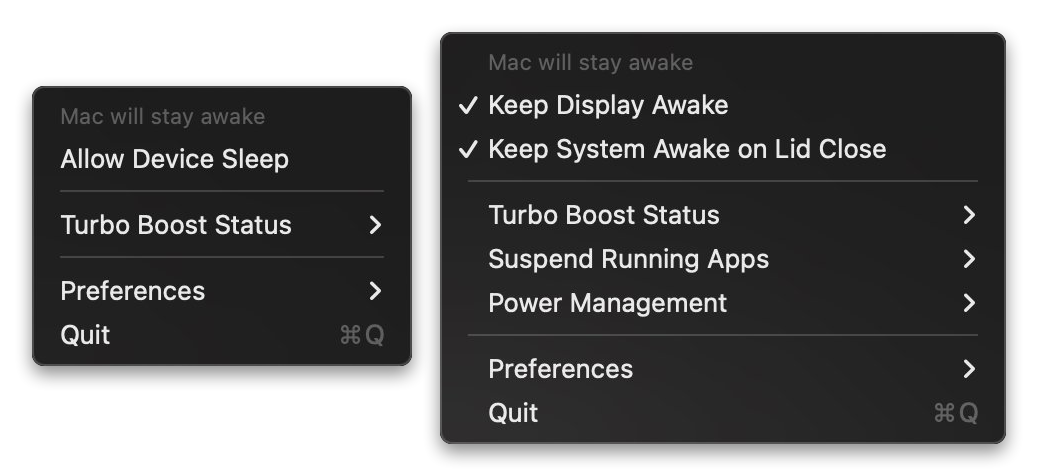
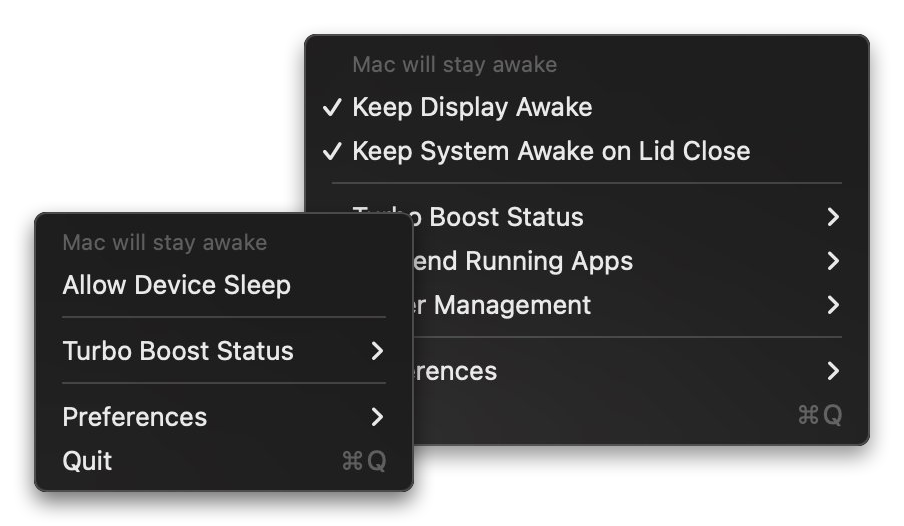
Update README dan Release Packgae

diff --git a/src/IzinDanLogin.swift b/src/IzinDanLogin.swift
@@ -10,6 +10,43 @@ extension AppDelegate {
         }
     }
 
+    func tanyaPasangIzinAwal() {
+        let pathSudoers = "/etc/sudoers.d/dontdoze"
+        guard !FileManager.default.fileExists(atPath: pathSudoers),
+              !UserDefaults.standard.bool(forKey: keyUdahTanyaSudoers) else {
+            return
+        }
+        UserDefaults.standard.set(true, forKey: keyUdahTanyaSudoers)
+        NSApp.activate(ignoringOtherApps: true)
+
+        let alert = NSAlert()
+        alert.alertStyle = .informational
+        alert.messageText = teks("Pasang Helper Sekali di Awal?", "Install Helper Once?")
+        alert.informativeText = teks(
+            """
+            Agar fitur cegah tidur saat layar ditutup (pmset) dan kontrol Turbo Boost (kextload/kextunload) bisa berjalan otomatis tanpa meminta password berulang kali—termasuk saat layar ditutup—DontDoze perlu membuat aturan terbatas di /etc/sudoers.d/dontdoze.
+
+            Kenapa aman?
+            • Hanya mengizinkan perintah spesifik: pmset (pengaturan daya), kextload, kextunload, dan chown kext.
+            • Bukan akses admin penuh dan tidak mengubah file sistem lain.
+            • Opsional: Anda bisa klik "Nanti Saja" jika hanya memakai mode jaga tetap menyala biasa, atau menghapus izin kapan saja lewat menu "Hapus Helper...".
+            """,
+            """
+            To let Lid-Close Sleep Prevention (pmset) and automatic Turbo Boost control (kextload/kextunload) run silently without repeated password prompts—including when the lid is closed—DontDoze needs to create a restricted rule at /etc/sudoers.d/dontdoze.
+
+            Why is this safe?
+            • It only allows specific commands: pmset (power settings), kextload, kextunload, and kext chown.
+            • It does not grant full admin access or modify other system files.
+            • Optional: click "Later" if you only need basic Keep Awake mode, and you can remove this anytime via "Remove Helper...".
+            """
+        )
+        alert.addButton(withTitle: teks("Pasang Helper", "Install Helper"))
+        alert.addButton(withTitle: teks("Nanti Saja", "Later"))
+        if alert.runModal() == .alertFirstButtonReturn {
+            _ = pasangFileSudoers()
+        }
+    }
+
     @objc func hapusIzin() {
         let konfirmasi = NSAlert()
         konfirmasi.messageText = teks("Hapus Izin & Bersihkan?", "Remove Permissions & Clean Up?")

diff --git a/src/ManajemenDaya.swift b/src/ManajemenDaya.swift
@@ -1,6 +1,28 @@
 import Cocoa
 
 extension AppDelegate {
+    @objc func toggleModeSemua() {
+        if lagiTerjaga || cacheSleepDimatiin {
+            matiinCaffeinate()
+            lagiTerjaga = false
+            if cacheSleepDimatiin && jalaninPmsetAdmin("disablesleep 0") {
+                cacheSleepDimatiin = false
+                lanjutinAplikasiKeSuspend()
+                aturPantauTutupLayar()
+            }
+        } else {
+            nyalainCaffeinate()
+            lagiTerjaga = true
+            if !cacheSleepDimatiin && FileManager.default.fileExists(atPath: "/etc/sudoers.d/dontdoze") {
+                if jalaninPmsetAdmin("disablesleep 1") {
+                    cacheSleepDimatiin = true
+                    aturPantauTutupLayar()
+                }
+            }
+        }
+        updateIkon()
+    }
+
     @objc func toggleLayarAja() {
         if lagiTerjaga {
             matiinCaffeinate()
@@ -70,6 +92,28 @@ extension AppDelegate {
             if alert.runModal() == .alertFirstButtonReturn, pasangFileSudoers(), jalaninPmsetAdmin(target) {
                 cacheNilaiDaya[opsi.key] = nilaiBaru
             }
+        }
+    }
+
+    @objc func resetOpsiDaya() {
+        let konfirmasi = NSAlert()
+        konfirmasi.alertStyle = .informational
+        konfirmasi.messageText = teks("Reset Manajemen Daya ke Default?", "Reset Power Management to Defaults?")
+        konfirmasi.informativeText = teks(
+            "Ini akan mengembalikan pengaturan standby, autopoweroff, hibernatemode, disksleep, powernap, womp, proximitywake, tcpkeepalive, dan ttyskeepawake ke bawaan macOS.",
+            "This will restore standby, autopoweroff, hibernatemode, disksleep, powernap, womp, proximitywake, tcpkeepalive, and ttyskeepawake to macOS defaults."
+        )
+        konfirmasi.addButton(withTitle: teks("Reset", "Reset"))
+        konfirmasi.addButton(withTitle: teks("Batal", "Cancel"))
+        guard konfirmasi.runModal() == .alertFirstButtonReturn else { return }
+
+        let defaultArgs = daftarOpsiDaya
+            .filter { cacheNilaiDaya[$0.key] != nil }
+            .map { "\($0.key) \($0.nilaiAktif)" }
+            .joined(separator: " ")
+        guard !defaultArgs.isEmpty else { return }
+        if jalaninPmsetAdmin(defaultArgs) {
+            cacheNilaiDaya = parseNilaiPmset(di: bacaOutputPmset())
         }
     }
 

diff --git a/src/AppDelegate.swift b/src/AppDelegate.swift
@@ -12,6 +12,7 @@ final class AppDelegate: NSObject, NSApplicationDelegate {
     let keyIkonMenuBar = "MenuBarIcon"
     let keySuspendTutupLayar = "FreezeAppsOnLidClose"
     let keyModeTurboBoost = "TurboBoostMode"
+    let keyUdahTanyaSudoers = "HasPromptedSudoersSetup"
     let keyModeLanjutan = "AdvancedMode"
     let keySisaPIDKeSuspend = "LeftoverFrozenPIDs"
 
@@ -114,6 +115,9 @@ final class AppDelegate: NSObject, NSApplicationDelegate {
             }
         }
         aturPantauTutupLayar()
+        DispatchQueue.main.async {
+            self.tanyaPasangIzinAwal()
+        }
     }
 
     func applicationWillTerminate(_ notification: Notification) {
@@ -130,7 +134,7 @@ final class AppDelegate: NSObject, NSApplicationDelegate {
         if event.type == .rightMouseUp || event.modifierFlags.contains(.option) {
             tampilinMenu()
         } else {
-            toggleLayarAja()
+            toggleModeSemua()
         }
     }
 
@@ -182,10 +186,10 @@ final class AppDelegate: NSObject, NSApplicationDelegate {
             menu.addItem(itemSistem)
             itemSleepLayar = itemSistem
         } else {
-            let judulToggle = lagiTerjaga
+            let judulToggle = (lagiTerjaga || cacheSleepDimatiin)
                 ? teks("Izinkan Perangkat Tidur", "Allow Device Sleep")
                 : teks("Jaga Tetap Menyala", "Keep Device Awake")
-            let itemToggle = NSMenuItem(title: judulToggle, action: #selector(toggleLayarAja), keyEquivalent: "")
+            let itemToggle = NSMenuItem(title: judulToggle, action: #selector(toggleModeSemua), keyEquivalent: "")
             itemToggle.target = self
             menu.addItem(itemToggle)
         }
@@ -254,6 +258,11 @@ final class AppDelegate: NSObject, NSApplicationDelegate {
                 menuDaya.addItem(item)
                 daftarItemDaya[opsi.key] = item
             }
+            menuDaya.addItem(NSMenuItem.separator())
+            let itemReset = NSMenuItem(title: teks("Reset ke Default...", "Reset to Defaults..."), action: #selector(resetOpsiDaya), keyEquivalent: "")
+            itemReset.target = self
+            menuDaya.addItem(itemReset)
+
             let parentDaya = NSMenuItem(title: teks("Manajemen Daya", "Power Management"), action: nil, keyEquivalent: "")
             parentDaya.submenu = menuDaya
             menu.addItem(parentDaya)

diff --git a/README.md b/README.md
@@ -12,6 +12,10 @@
 [![Architecture](https://img.shields.io/badge/arch-Universal%20(x86__64%20%7C%20arm64)-blue.svg)](https://github.com/IqyRily/stay-awake)
 [![License](https://img.shields.io/badge/license-MIT-green.svg)](LICENSE)
 
+<br>
+
+[![Download Latest Release](https://img.shields.io/badge/Download-DontDoze--macOS.zip-2ea44f?style=for-the-badge&logo=apple&logoColor=white)](https://github.com/IqyRily/stay-awake/releases/latest/download/DontDoze-macOS.zip)
+
 </div>
 
 ---
@@ -68,12 +72,12 @@ open DontDoze.app
 
 ## Usage <a name="usage"></a>
 
-- **Left-Click Icon:** Quickly toggle **Keep Device Awake** / **Allow Device Sleep** (runs `caffeinate -d -i -m -s` — no password required).
+- **Left-Click Icon:** Quickly toggle **Keep Device Awake** / **Allow Device Sleep** (runs `caffeinate -d -i -m -s` and sets `pmset -a disablesleep 1/0` when the Helper is installed).
 - **Right-Click Icon:** Open the menu:
   - **Turbo Boost Status** *(Intel `x86_64` only)*: Switch between **Always Enabled**, **Disable When Lid Close**, or **Always Disabled**.
   - **Preferences:**
     - **Launch at Login:** Start DontDoze automatically via `~/Library/LaunchAgents/com.rizki.DontDoze.plist`.
-    - **Advanced Mode:** Unlocks independent **Keep Display Awake** (`caffeinate`) and **Keep System Awake on Lid Close** (`pmset -a disablesleep`) toggles, **Suspend Running Apps** (`SIGSTOP`/`SIGCONT` on lid close + `~/Library/Logs/DontDoze.log`), and **Power Management** (`standby`, `autopoweroff`, `hibernatemode`, `disksleep`, `powernap`, `womp`, `proximitywake`, `tcpkeepalive`, `ttyskeepawake`).
+    - **Advanced Mode:** Unlocks independent **Keep Display Awake** (`caffeinate`) and **Keep System Awake on Lid Close** (`pmset -a disablesleep`) toggles, **Suspend Running Apps** (`SIGSTOP`/`SIGCONT` on lid close + `~/Library/Logs/DontDoze.log`), and **Power Management** (`standby`, `autopoweroff`, `hibernatemode`, `disksleep`, `powernap`, `womp`, `proximitywake`, `tcpkeepalive`, `ttyskeepawake`, plus **Reset to Defaults...**).
     - **Install / Remove Helper...:** One-time `/etc/sudoers.d/dontdoze` setup (prompted only when using features that need `sudo`, such as `pmset` or Turbo Boost), plus clean uninstallation.
     - **Menu Bar Icon:** Choose **Default** (`Zzz`), **MacBook**, or **Coffee Cup**.
     - **Language:** Follow System, Indonesia, or English.
